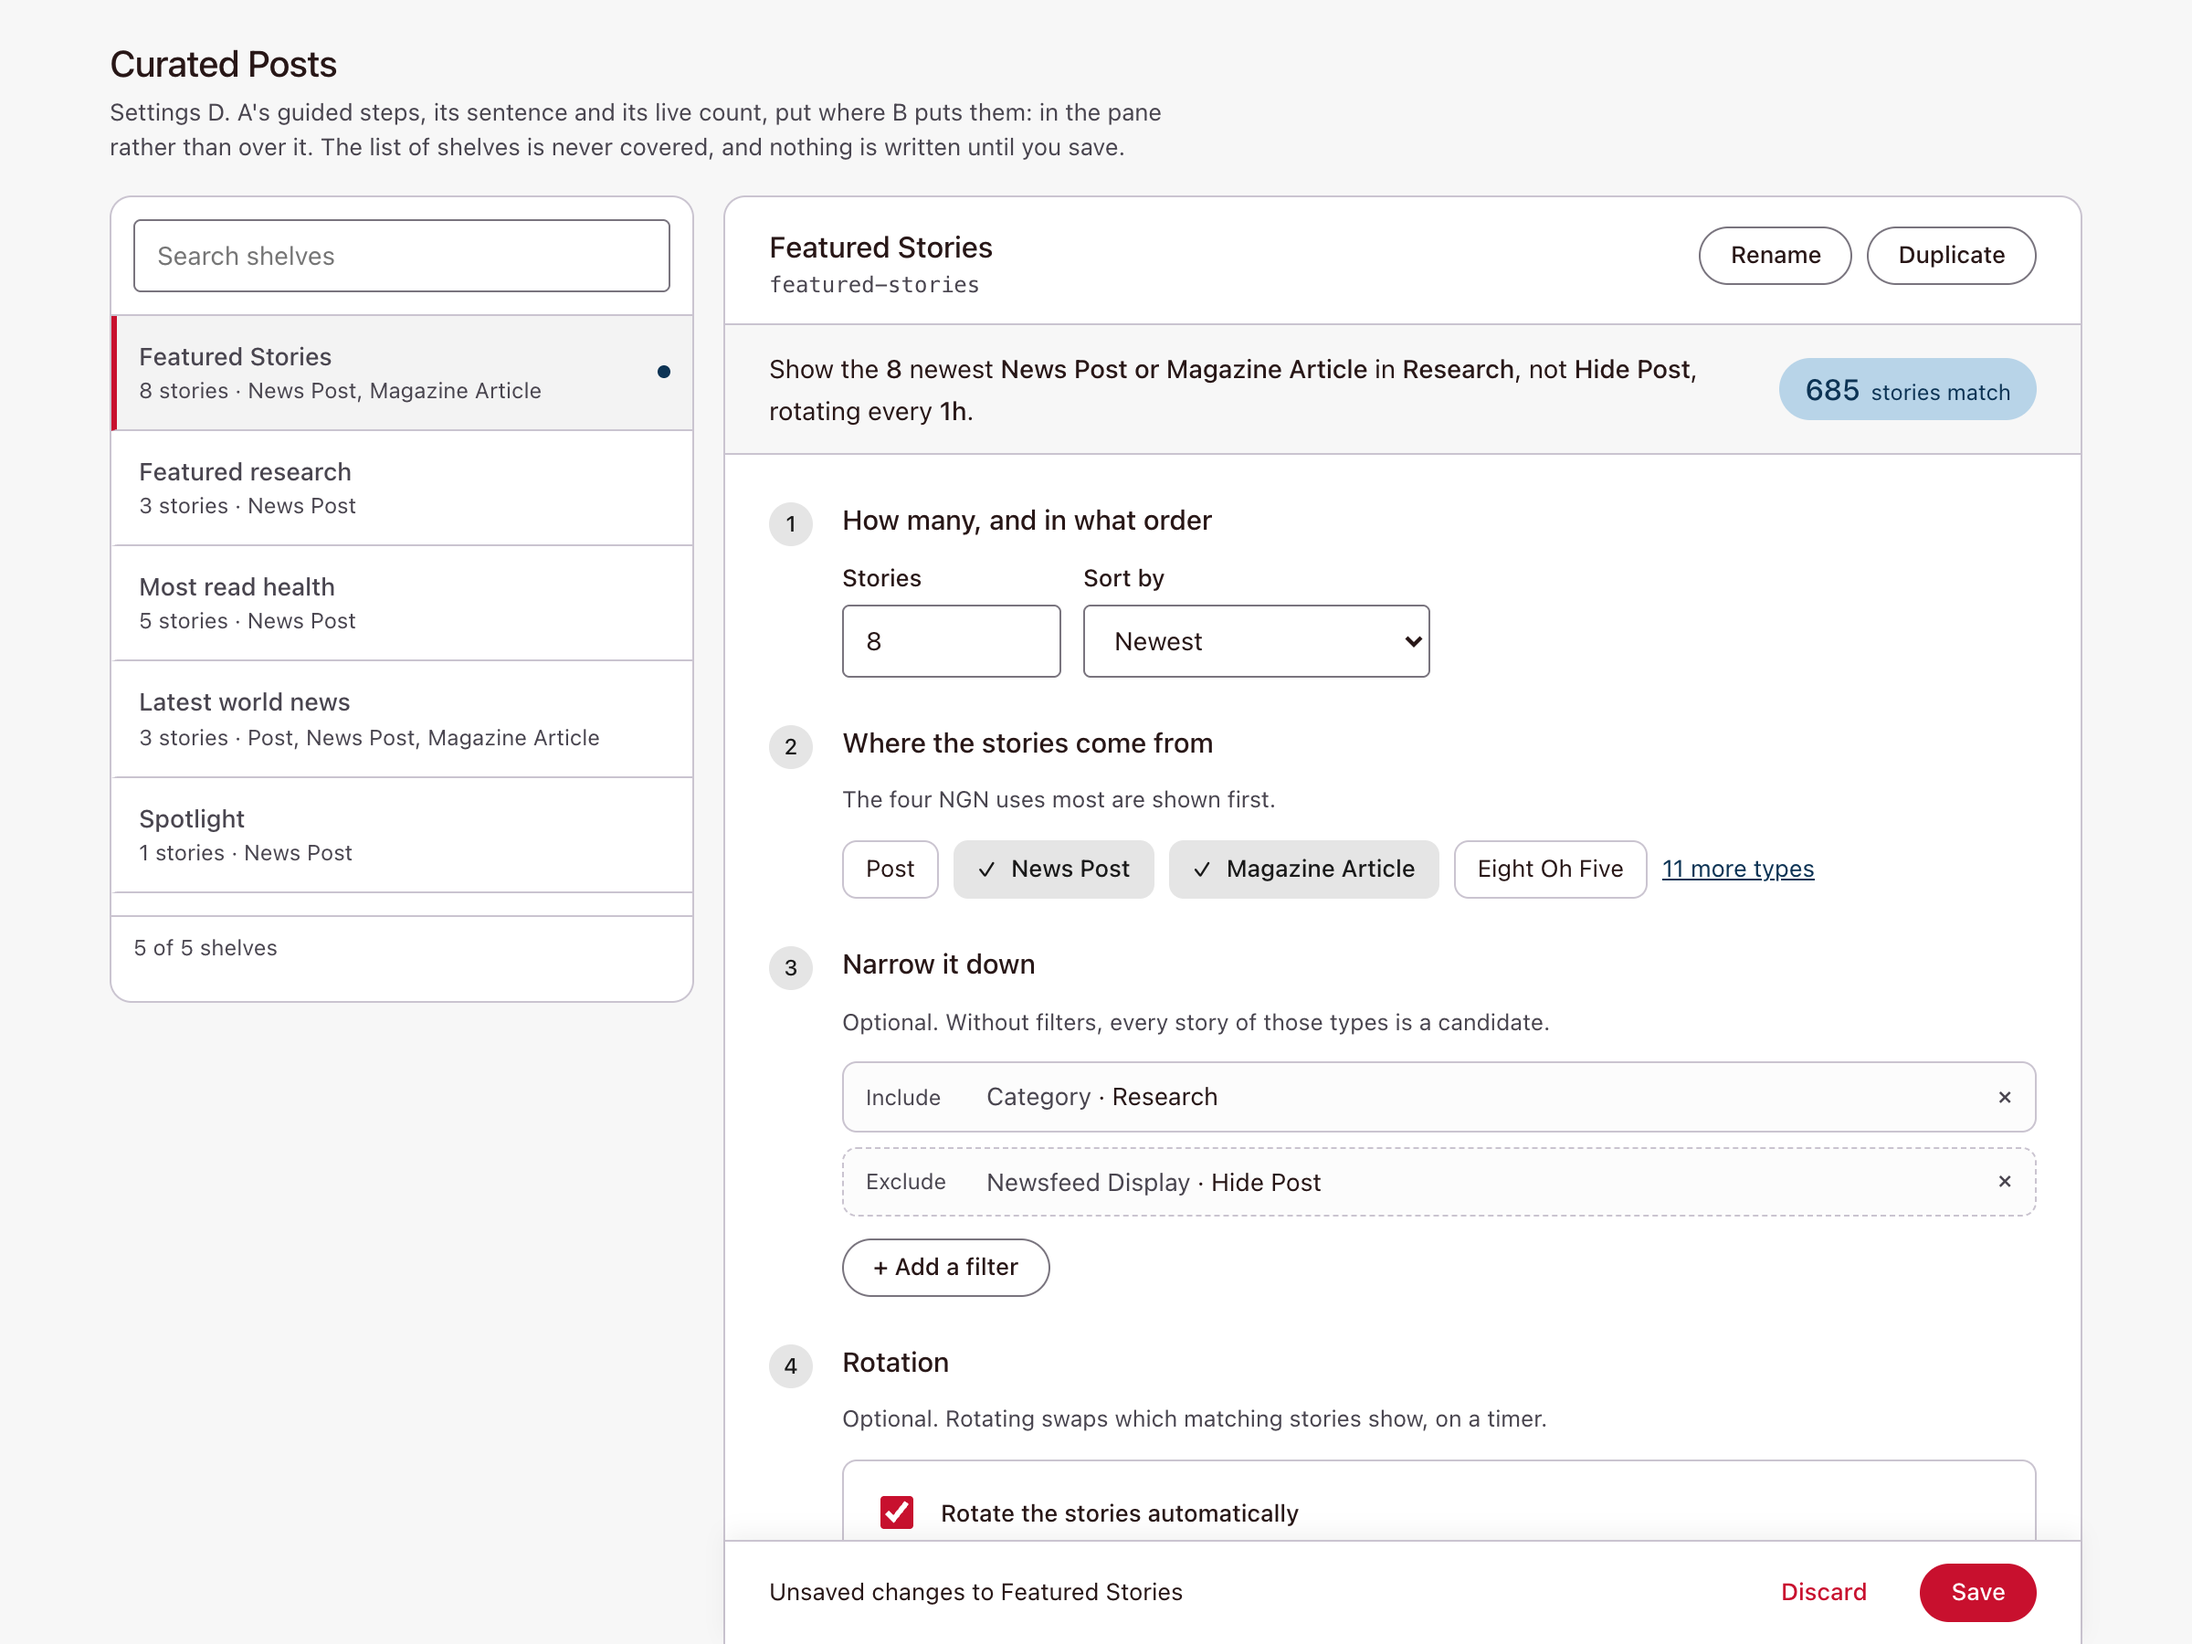
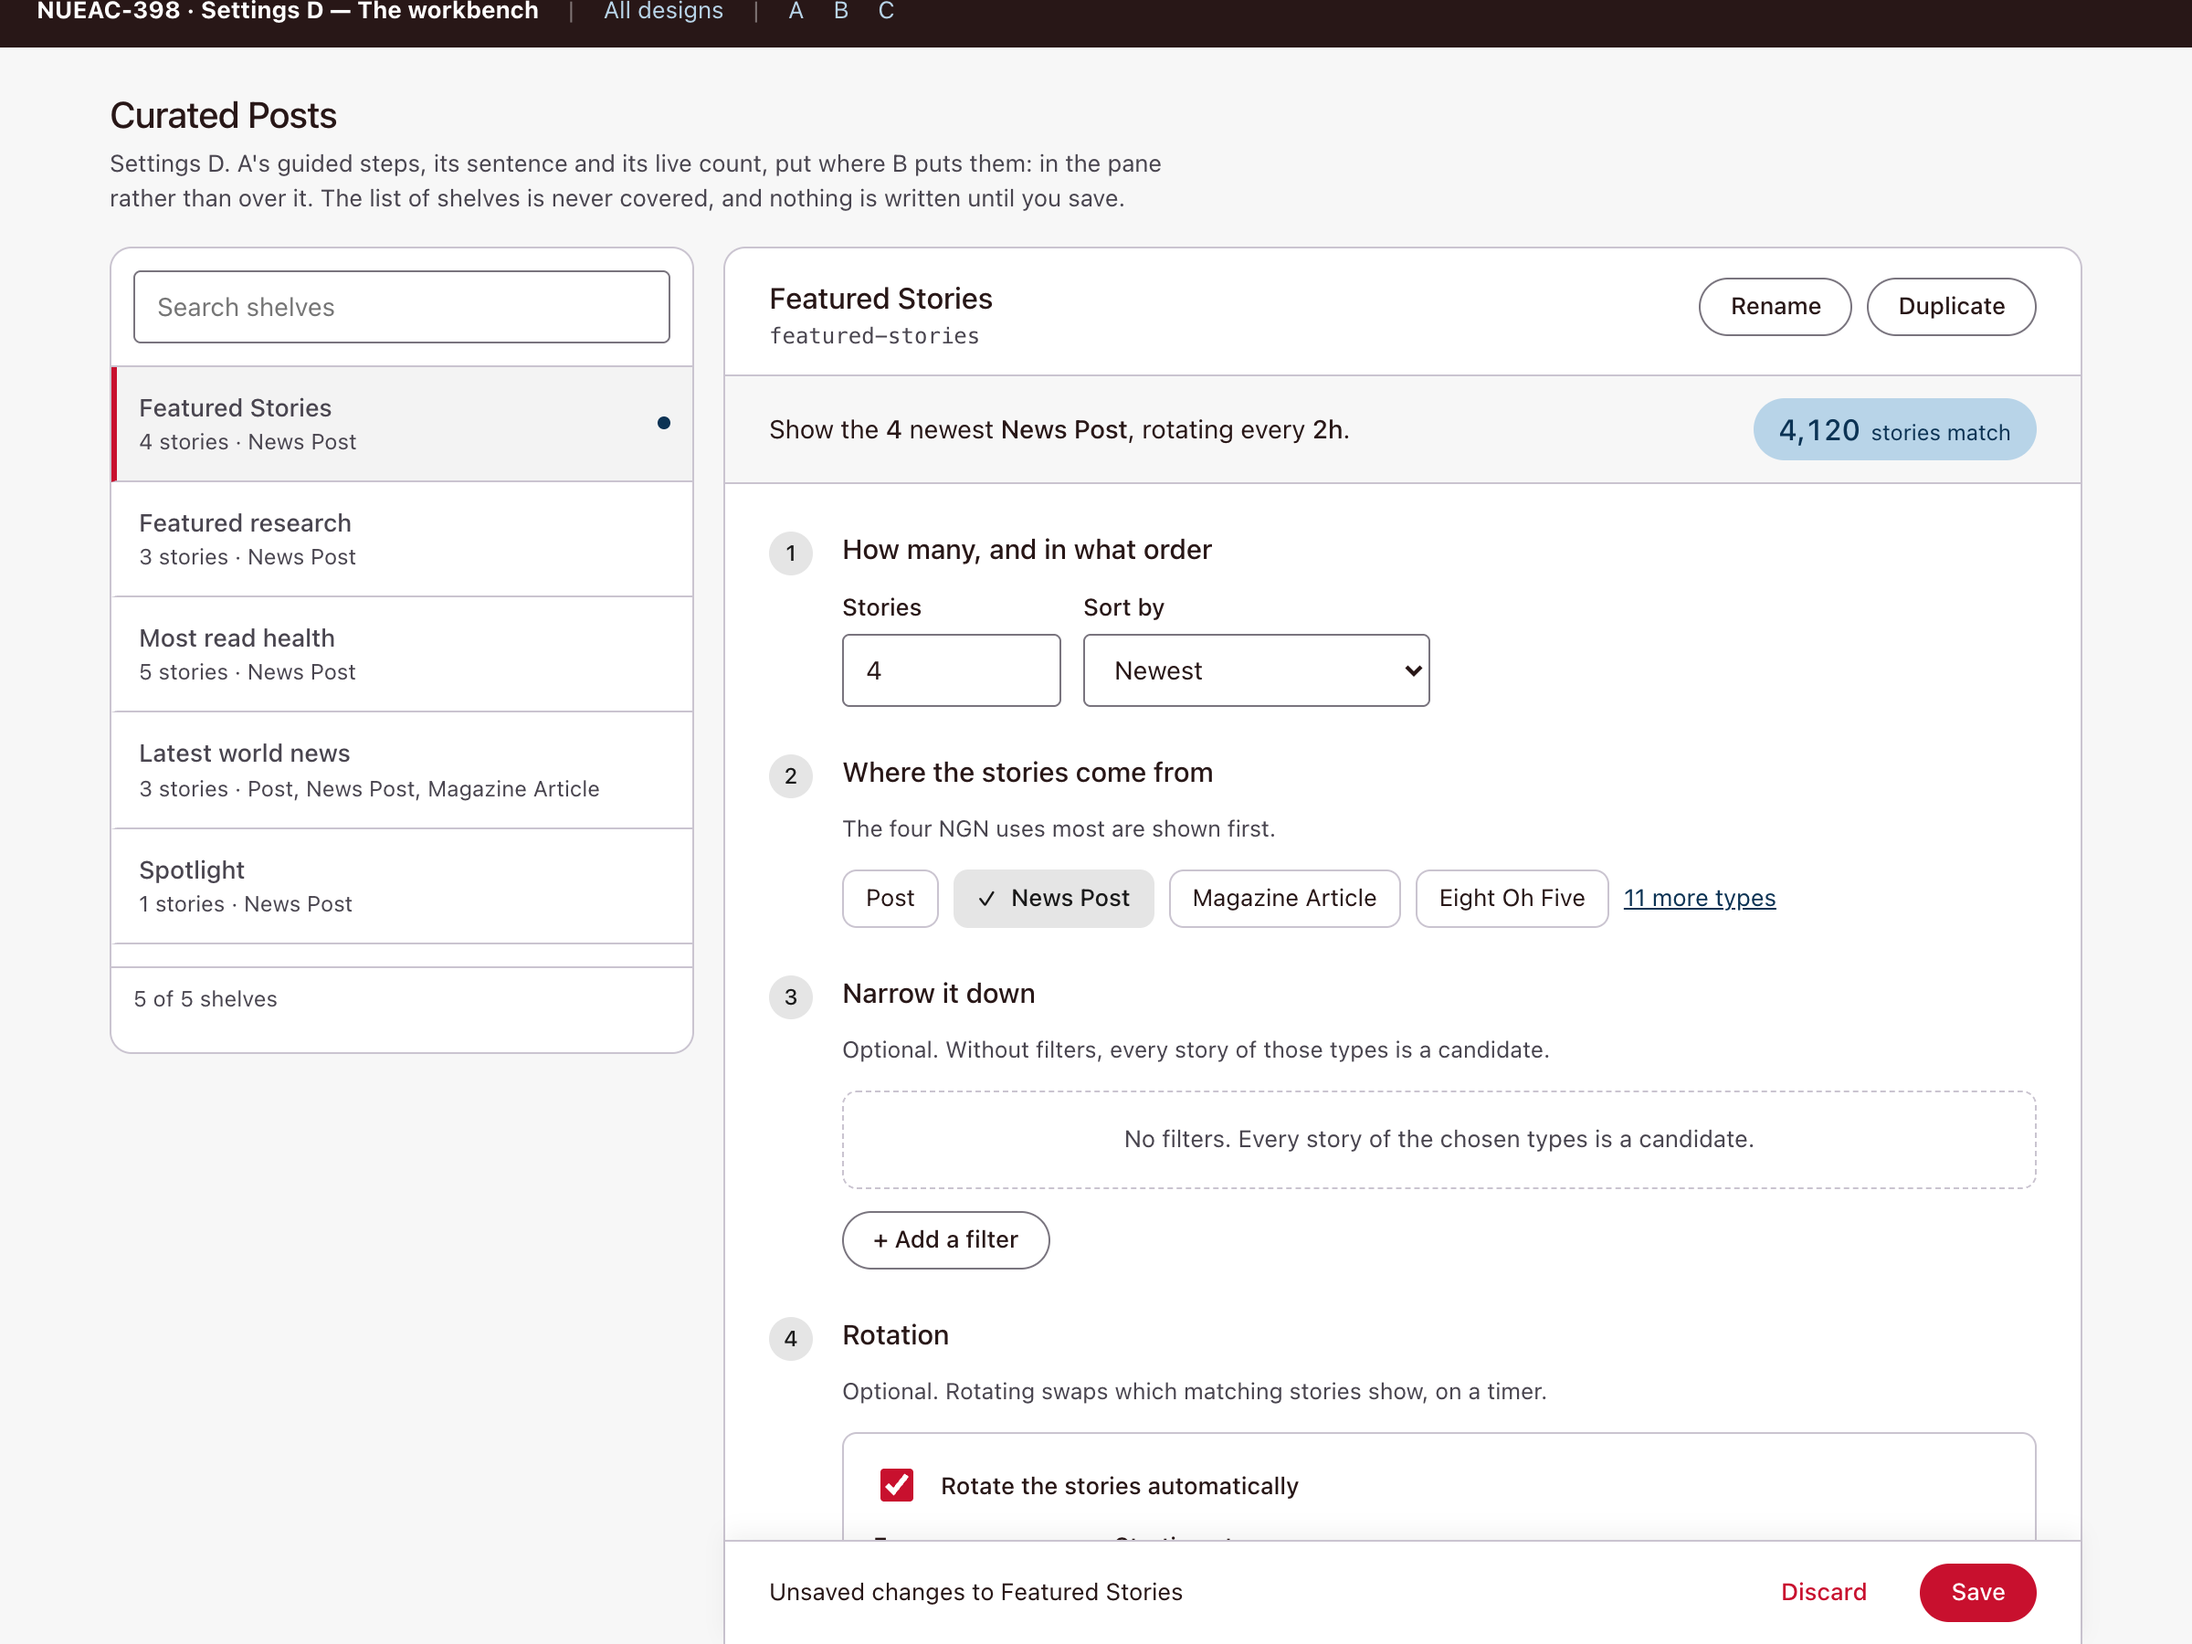
Work out the next rotation instead of printing a fixed time
Caught in review. "Next at 12:00 PM" was a string I typed, sitting under
a start time of 12:00 AM, so the two disagreed and the line never moved
when the start time or interval changed. In a demo that falls apart the
moment someone edits the field.

nextRotations anchors to today's start time and steps forward by the
interval until it passes now, the same way the plugin's own
getNextRotationTimes does. nextRunLine turns that into the one line the
screen shows, and says so plainly when the interval cannot be read.

Checked against a fixed clock rather than the wall clock: 09:20 with a
midnight start and 1h gives 10:00, 11:00, 12:00; a 09:30 start with 30m
gives 09:30; "2h 30m" parses to 150 minutes; nonsense gives guidance
rather than a wrong time. All three designs now use it.

diff --git a/assets/settings-data.js b/assets/settings-data.js
@@ -53,3 +53,57 @@ window.matchCount = function (s) {
   s.exclude.forEach(function () { n = Math.round(n * 0.86); });
   return n;
 };
+
+/* --------------------------------------------------------------------------
+   When does this shelf next rotate?
+
+   Derived from the start time and the interval, the same way the plugin's
+   getNextRotationTimes does it: anchor to today's start time, step forward
+   by the interval until you pass now.
+   -------------------------------------------------------------------------- */
+
+/** "1h" / "90m" / "2h 30m" -> minutes. Returns 0 when it cannot be read. */
+window.intervalMinutes = function (text) {
+  var m = String(text).toLowerCase().match(/(\d+)\s*h|(\d+)\s*m/g);
+  if (!m) return 0;
+  return m.reduce(function (total, part) {
+    var n = parseInt(part, 10);
+    return total + (part.indexOf('h') > -1 ? n * 60 : n);
+  }, 0);
+};
+
+/**
+ * The next few rotation times.
+ *
+ * @param {string} start  "HH:MM" local.
+ * @param {string} every  Interval as typed.
+ * @param {number} count  How many to return.
+ * @param {Date}   now    Injectable, so this can be tested.
+ */
+window.nextRotations = function (start, every, count, now) {
+  var mins = intervalMinutes(every);
+  if (!mins) return [];
+
+  now = now || new Date();
+  var bits = String(start).split(':');
+  var anchor = new Date(now);
+  anchor.setHours(parseInt(bits[0], 10) || 0, parseInt(bits[1], 10) || 0, 0, 0);
+
+  var step = mins * 60000;
+  var elapsed = now.getTime() - anchor.getTime();
+  var first = anchor.getTime() + (elapsed < 0 ? 0 : Math.floor(elapsed / step) + 1) * step;
+
+  return Array.from({ length: count || 1 }, function (_, i) { return new Date(first + i * step); });
+};
+
+/** One line: when it next runs, and how often after that. */
+window.nextRunLine = function (start, every, now) {
+  var times = nextRotations(start, every, 1, now);
+  if (!times.length) return 'Set an interval like 1h or 30m.';
+
+  var t = times[0];
+  var sameDay = t.toDateString() === (now || new Date()).toDateString();
+  var when = t.toLocaleTimeString(undefined, { hour: 'numeric', minute: '2-digit' });
+
+  return 'Next at ' + when + (sameDay ? '' : ' tomorrow') + ', then every ' + every + '.';
+};

diff --git a/04-settings-guided.html b/04-settings-guided.html
@@ -280,7 +280,7 @@
     $('rot').classList.toggle('is-off', !s.rotation.on);
     $('rot-fields').style.display = s.rotation.on ? '' : 'none';
     $('next-run').textContent = s.rotation.on
-      ? 'Next at 12:00 PM, then every ' + s.rotation.interval + '.'
+      ? nextRunLine(s.rotation.start, s.rotation.interval)
       : '';
     $('dirty').textContent = touched ? 'Unsaved changes' : 'No changes yet';
   }
@@ -311,6 +311,7 @@
   $('sort-in').addEventListener('change', function () { change(function () { s.sort = this.value; }.bind(this)); });
   $('rot-on').addEventListener('change', function () { change(function () { s.rotation.on = this.checked; }.bind(this)); });
   $('rot-int').addEventListener('input', function () { change(function () { s.rotation.interval = this.value; }.bind(this)); });
+  $('rot-start').addEventListener('input', function () { change(function () { s.rotation.start = this.value; }.bind(this)); });
 
   function closePop() { $('pop-host').innerHTML = ''; }
 

diff --git a/05-settings-inline.html b/05-settings-inline.html
@@ -197,7 +197,7 @@
       '<div class="sect"><h3>Rotation</h3>' +
         (editing === 'rotation' ? editor('rotation')
           : line('rotation', 'Rotation', s.rotation.on ? 'Every ' + esc(s.rotation.interval) + ', from ' + esc(s.rotation.start) : 'off', !s.rotation.on)) +
-        (s.rotation.on && editing !== 'rotation' ? line('upcoming', 'Next run', 'Today 12:00 PM, then every ' + esc(s.rotation.interval)) : '') +
+        (s.rotation.on && editing !== 'rotation' ? line('upcoming', 'Next run', esc(nextRunLine(s.rotation.start, s.rotation.interval))) : '') +
       '</div>';
 
     $('savebar').hidden = changes === 0;

diff --git a/07-settings-workbench.html b/07-settings-workbench.html
@@ -311,7 +311,7 @@
     $('rot-start').value = draft.rotation.start;
     $('rot').classList.toggle('is-off', !draft.rotation.on);
     $('rot-fields').style.display = draft.rotation.on ? '' : 'none';
-    $('next-run').textContent = draft.rotation.on ? 'Next at 12:00 PM, then every ' + draft.rotation.interval + '.' : '';
+    $('next-run').textContent = draft.rotation.on ? nextRunLine(draft.rotation.start, draft.rotation.interval) : '';
     $('savebar').hidden = !changed();
     $('dirty').textContent = 'Unsaved changes to ' + SHELVES[sel].n;
   }
